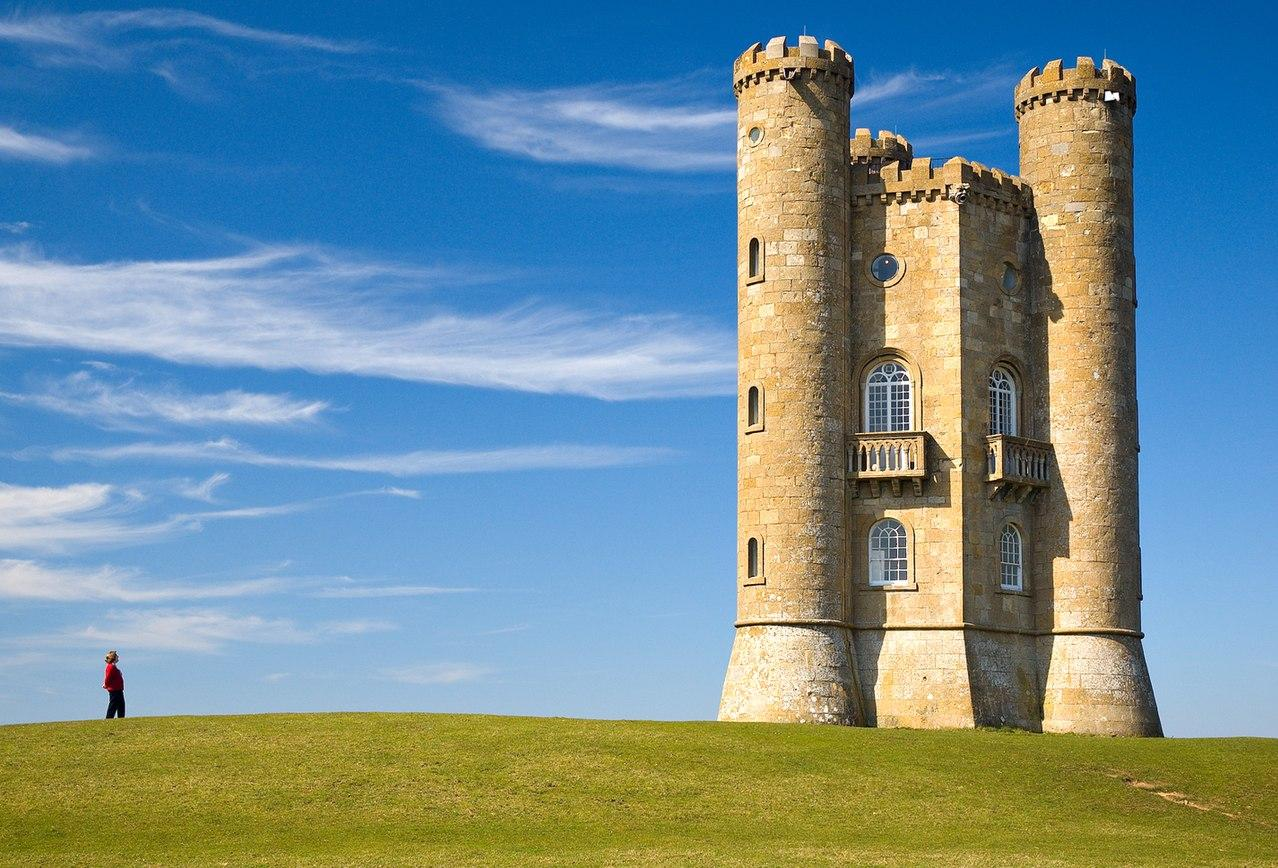
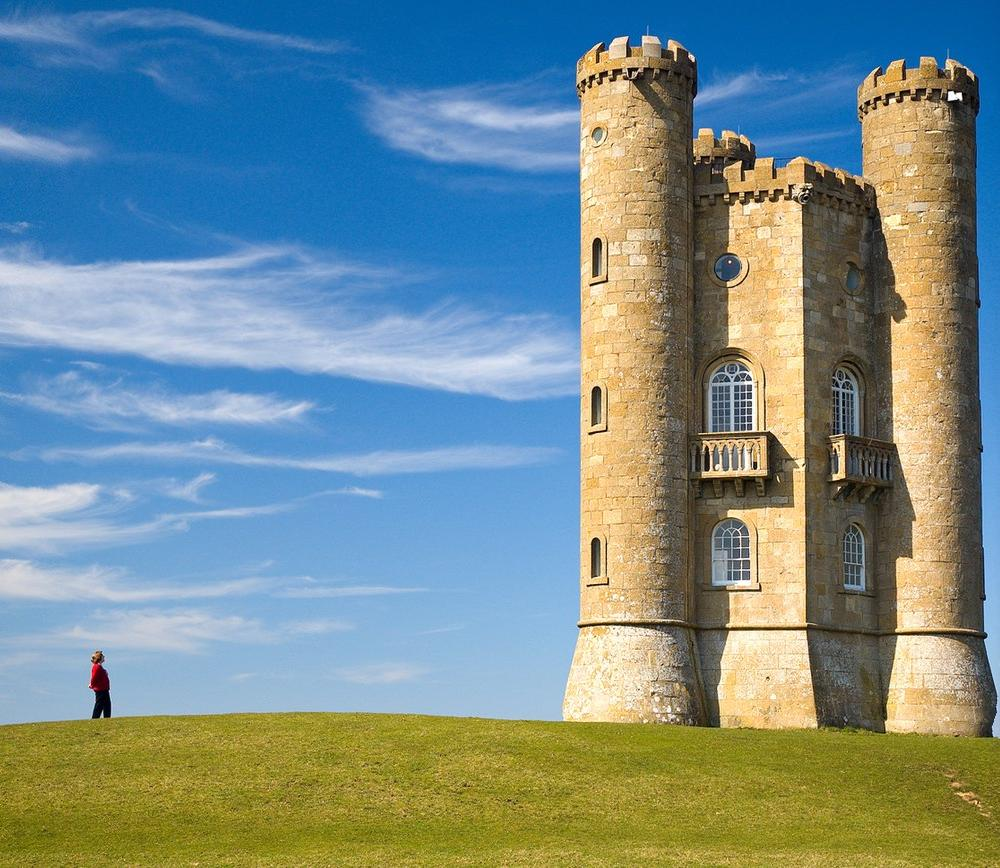
It carves!!

diff --git a/exam/src/exam/SeamCarver.java b/exam/src/exam/SeamCarver.java
@@ -126,14 +126,21 @@ public class SeamCarver
 		BufferedImage newImage = new BufferedImage(width - 1, height, BufferedImage.TYPE_INT_RGB);
 		for (int y = 0; y < height; y++) 
 		{
+			boolean skip = false;
 			for (int x = 0; x < width - 1; x++)
 			{
-				int xPos = x;
 				if (seam.getPixels()[y] == x)
 				{
-					xPos++;
+					skip = true;
 				}
-				newImage.setRGB(x, y, image.getRGB(xPos, y));
+				if(skip)
+				{
+					newImage.setRGB(x, y, image.getRGB(x + 1, y));
+				}
+				else
+				{
+					newImage.setRGB(x, y, image.getRGB(x, y));
+				}
 			}
 		}
 		return newImage;
